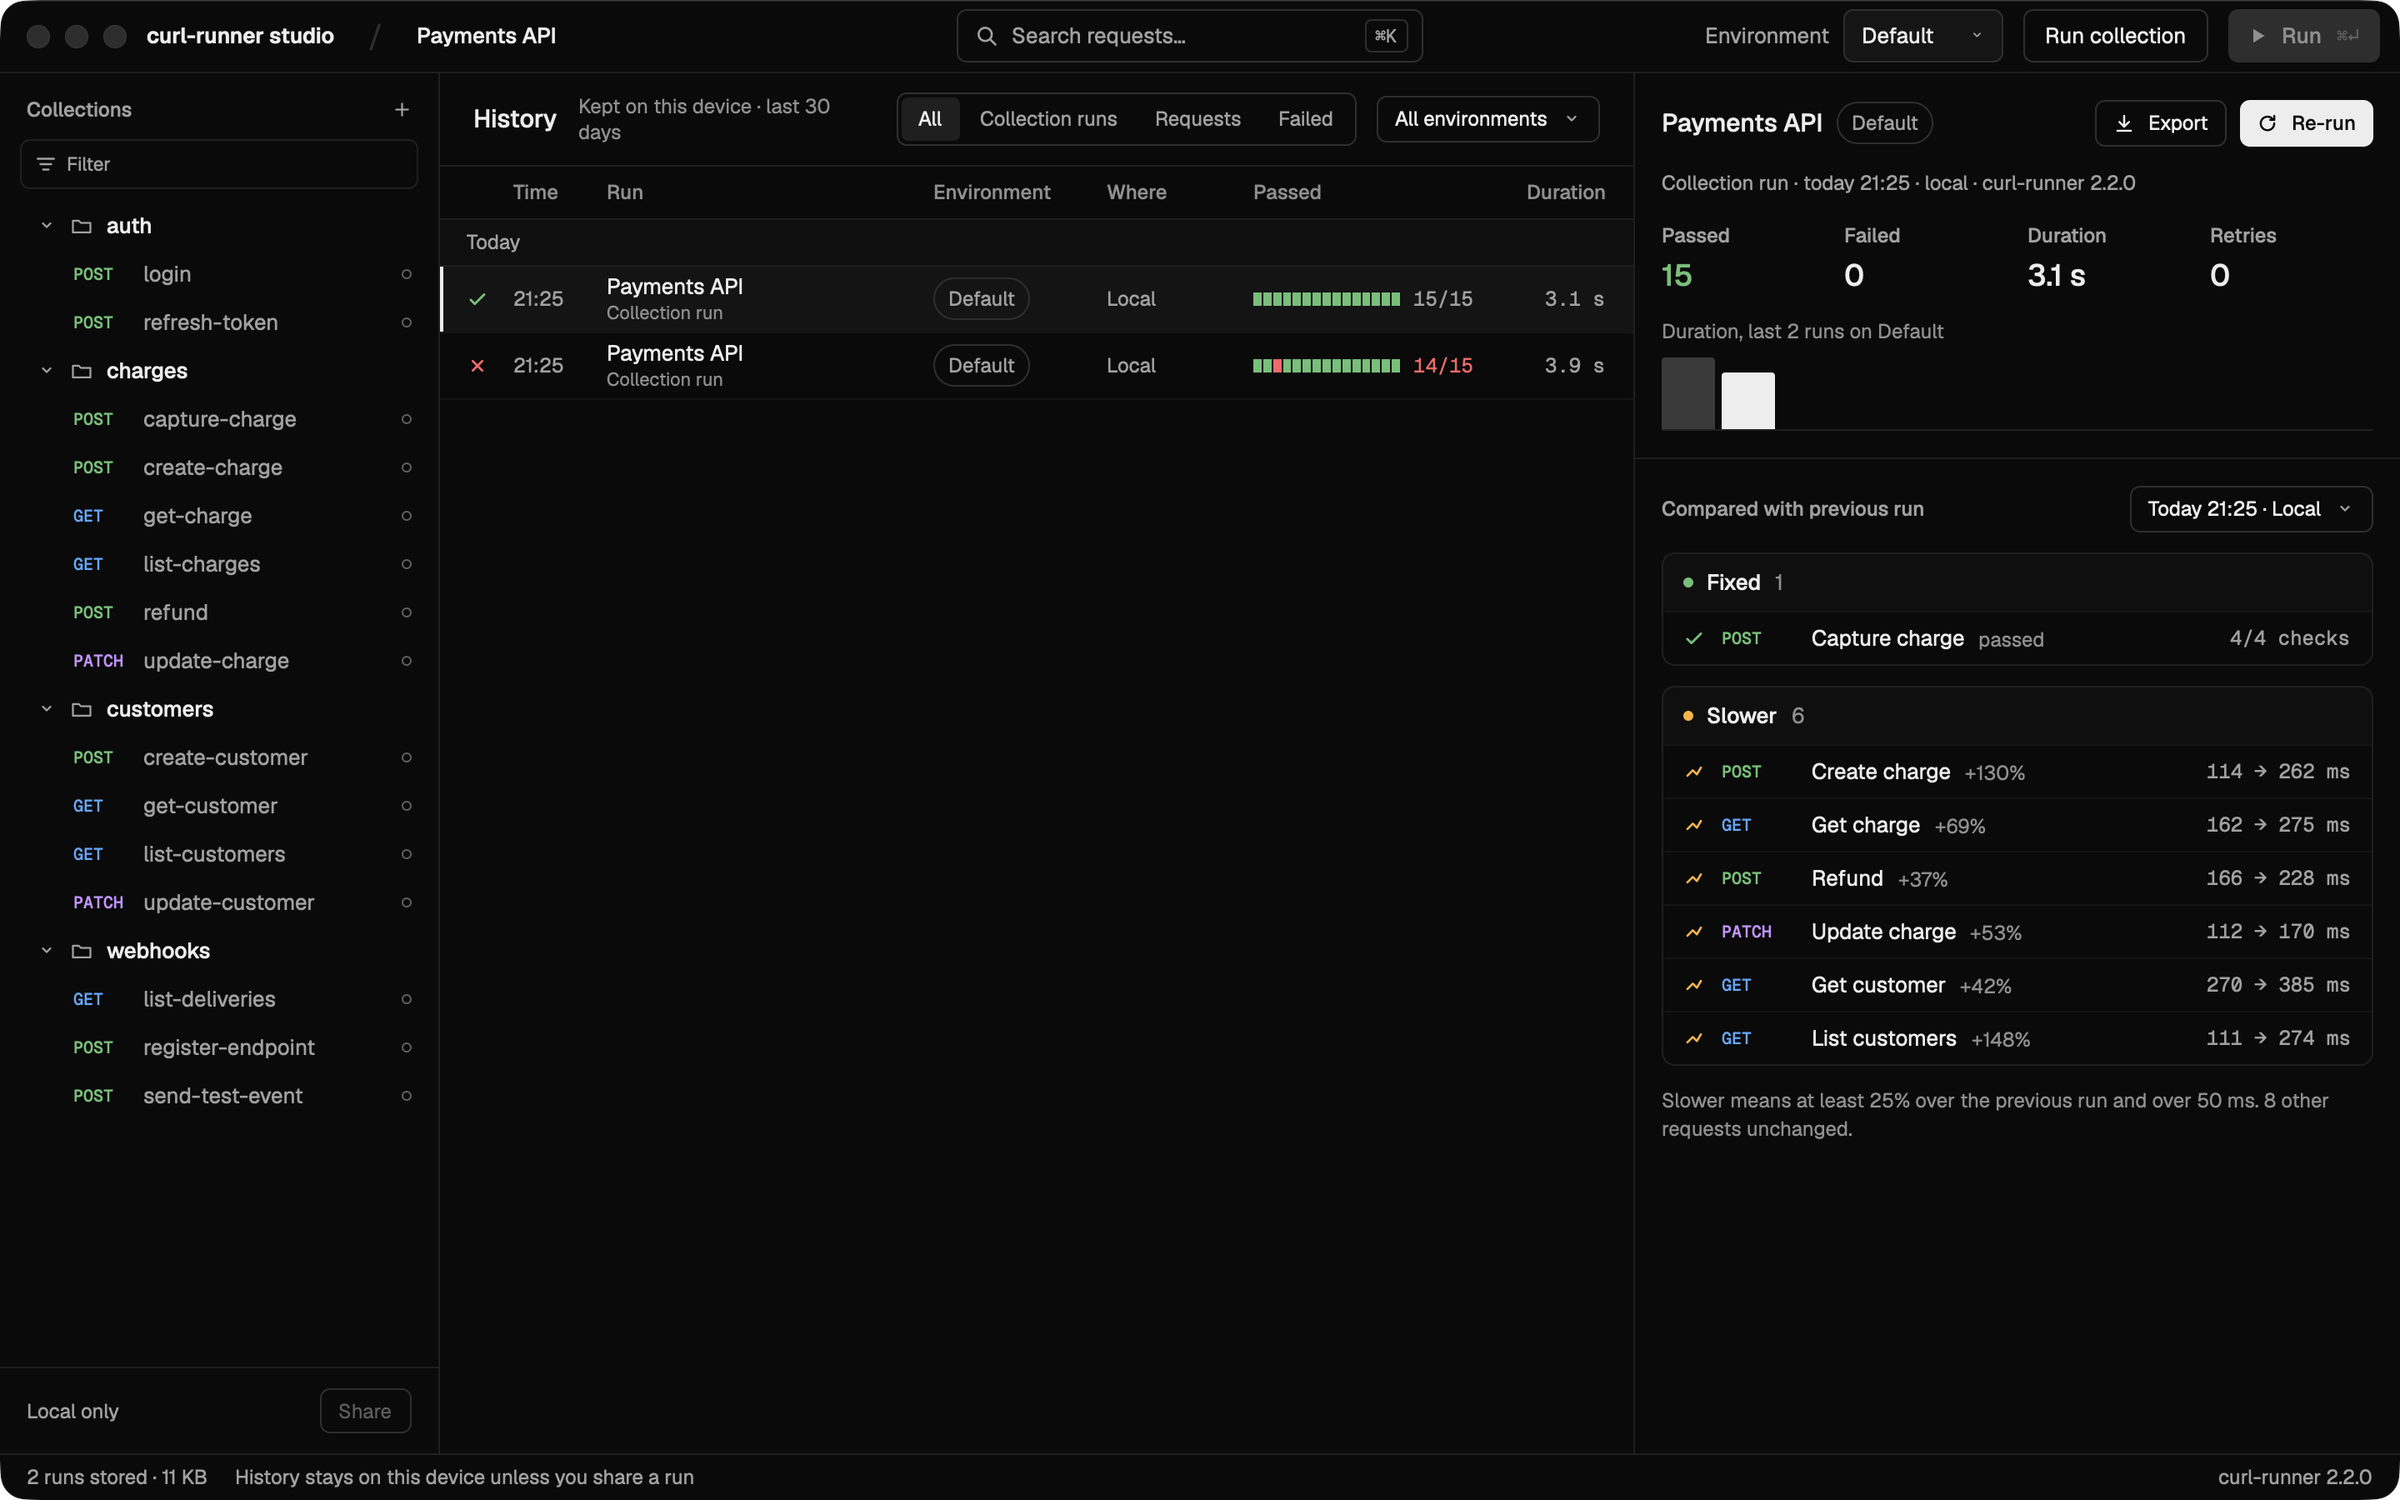
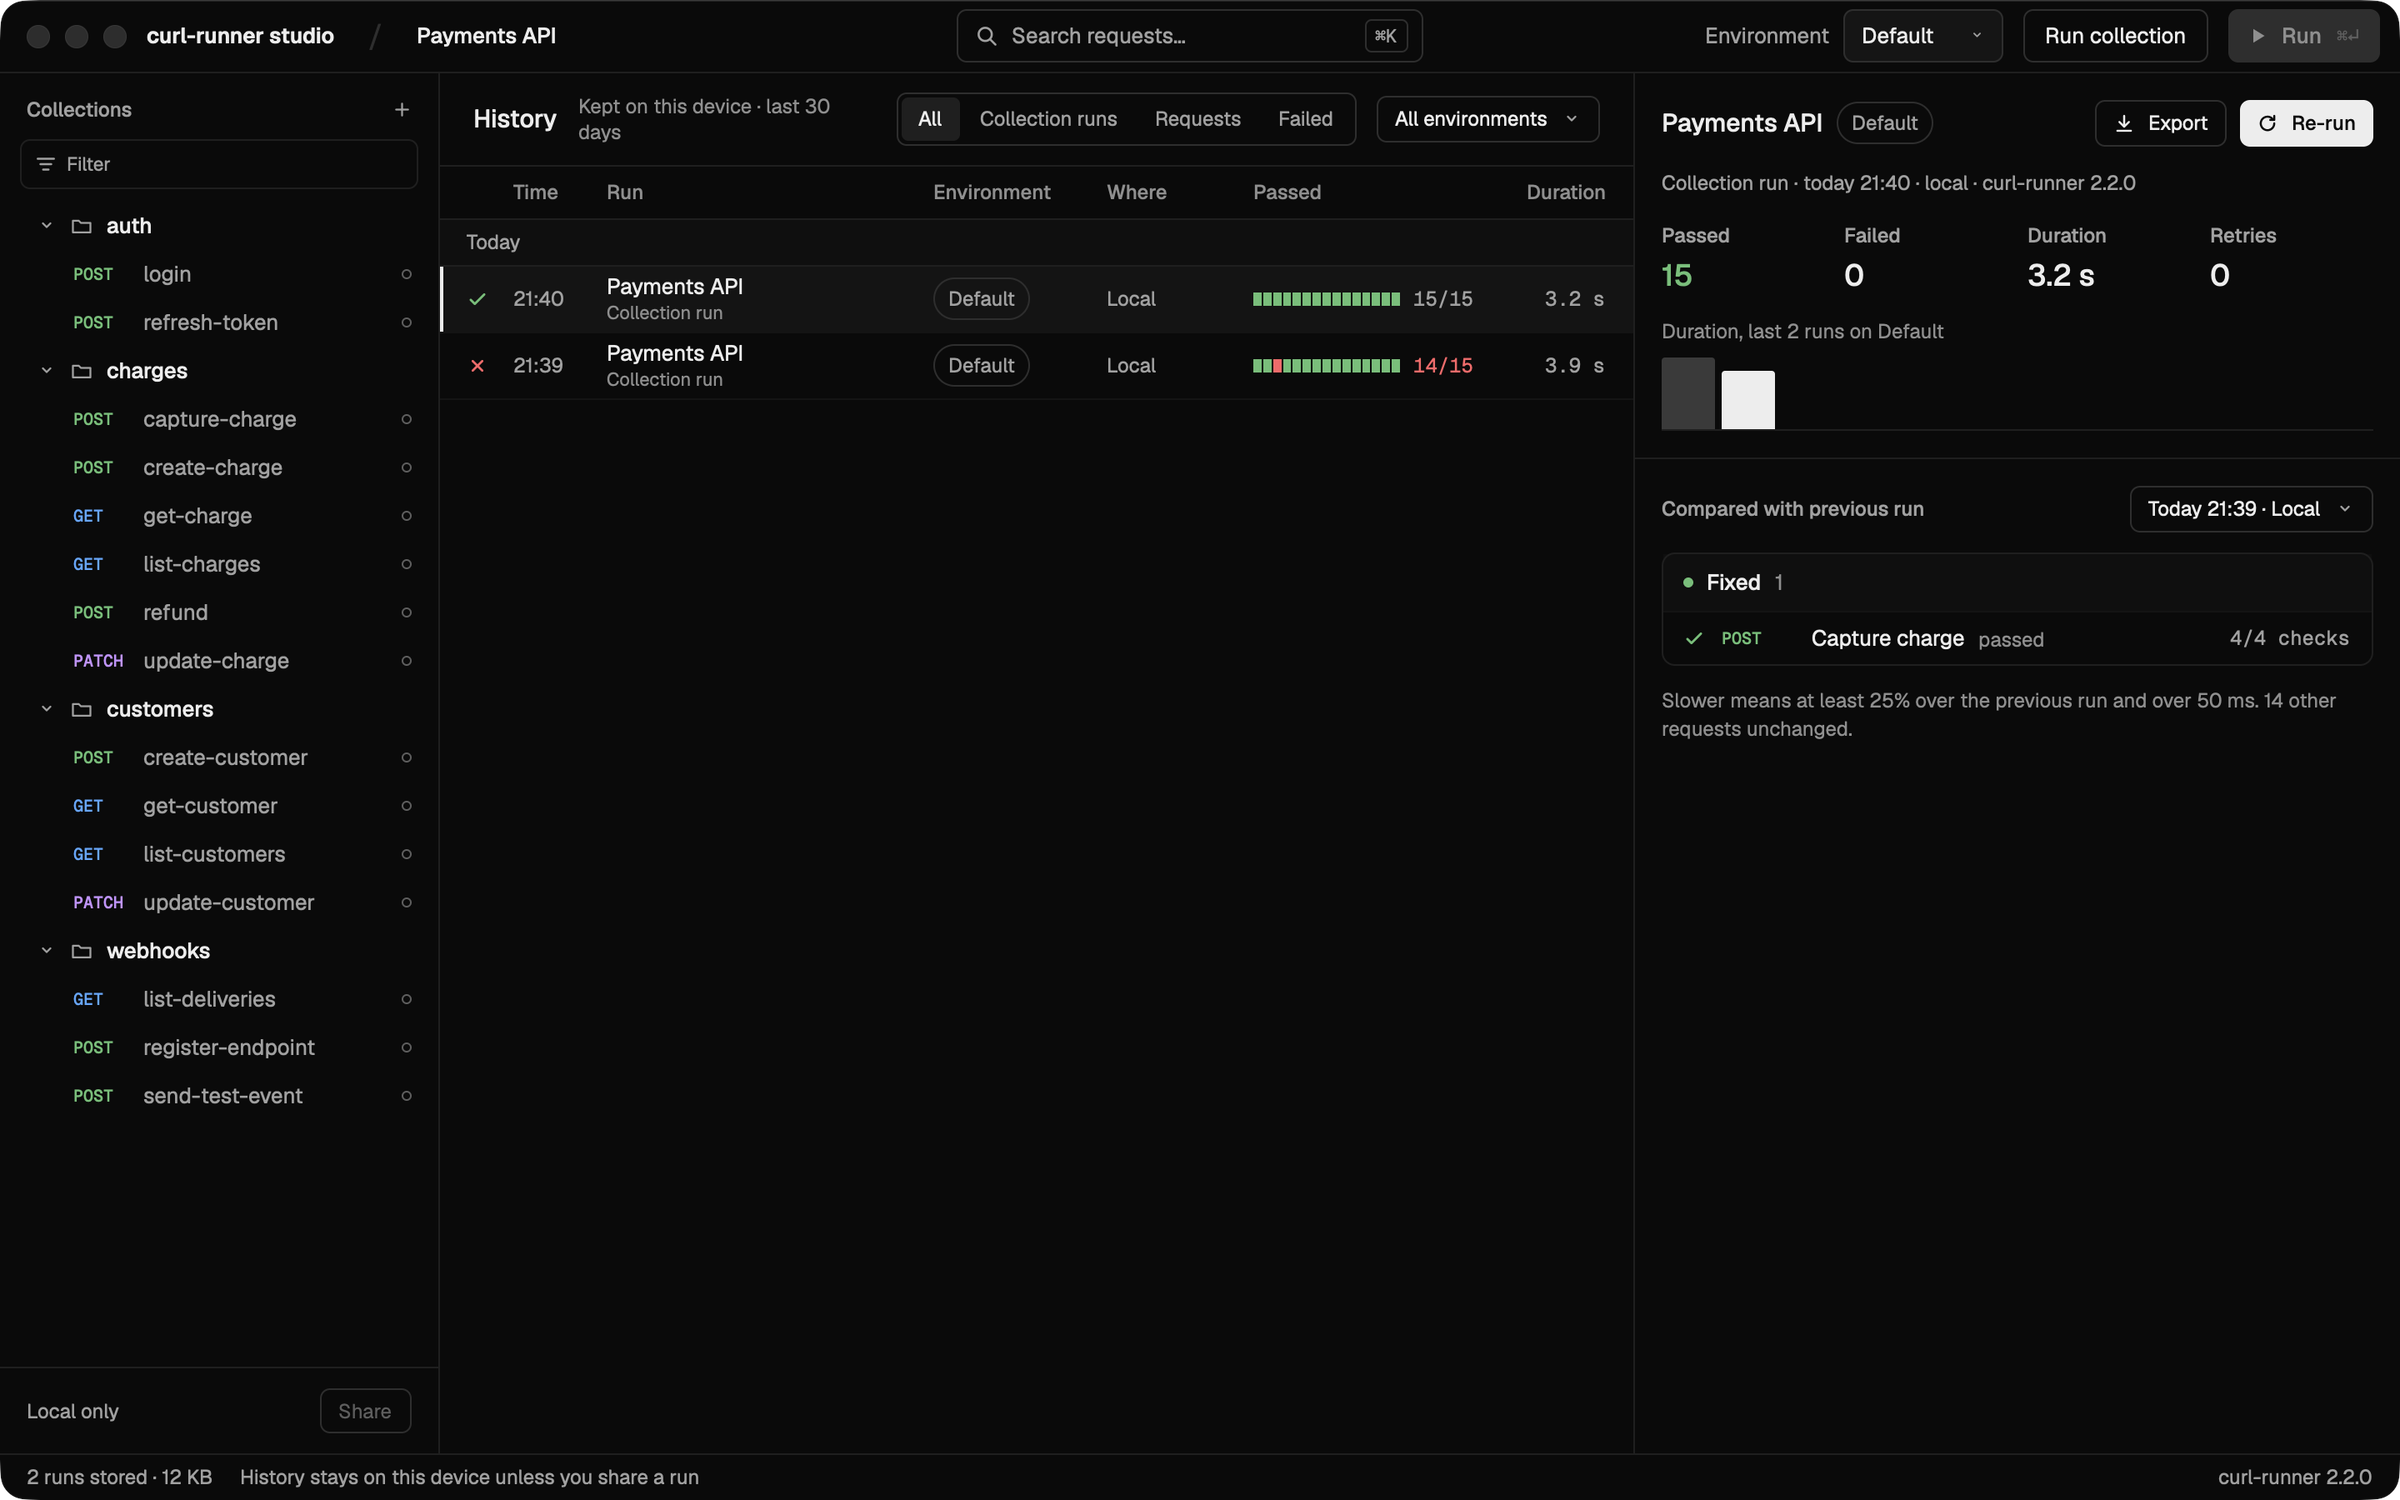
docs(site): reshoot the studio history screenshot with steady latencies

diff --git a/packages/docs/lib/studio.ts b/packages/docs/lib/studio.ts
@@ -81,7 +81,7 @@ const SCREENSHOTS = {
     src: '/studio/history.png',
     width: 2400,
     height: 1500,
-    alt: 'Run history of the Payments API: two collection runs, 14 of 15 and 15 of 15 passed. The latest is compared with the previous run: Capture charge is listed as fixed and six requests as slower, each with its duration before and after.',
+    alt: 'Run history of the Payments API: two collection runs, 14 of 15 and 15 of 15 passed. The latest is compared with the previous run: Capture charge is listed as fixed and the other 14 requests are unchanged.',
     title: 'Compare with the last run',
     description:
       'Run history stays on your machine. Pick a run to see what it fixed, what it broke and what got slower than the run before it.',
